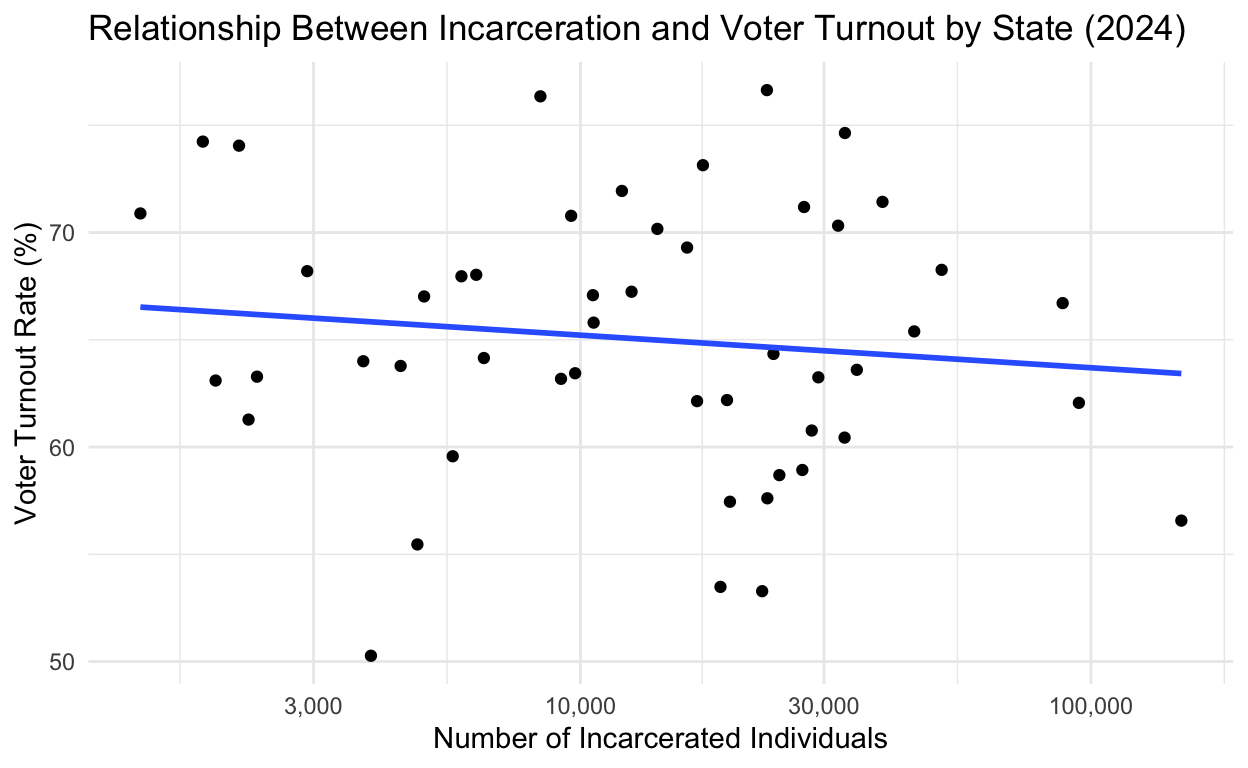
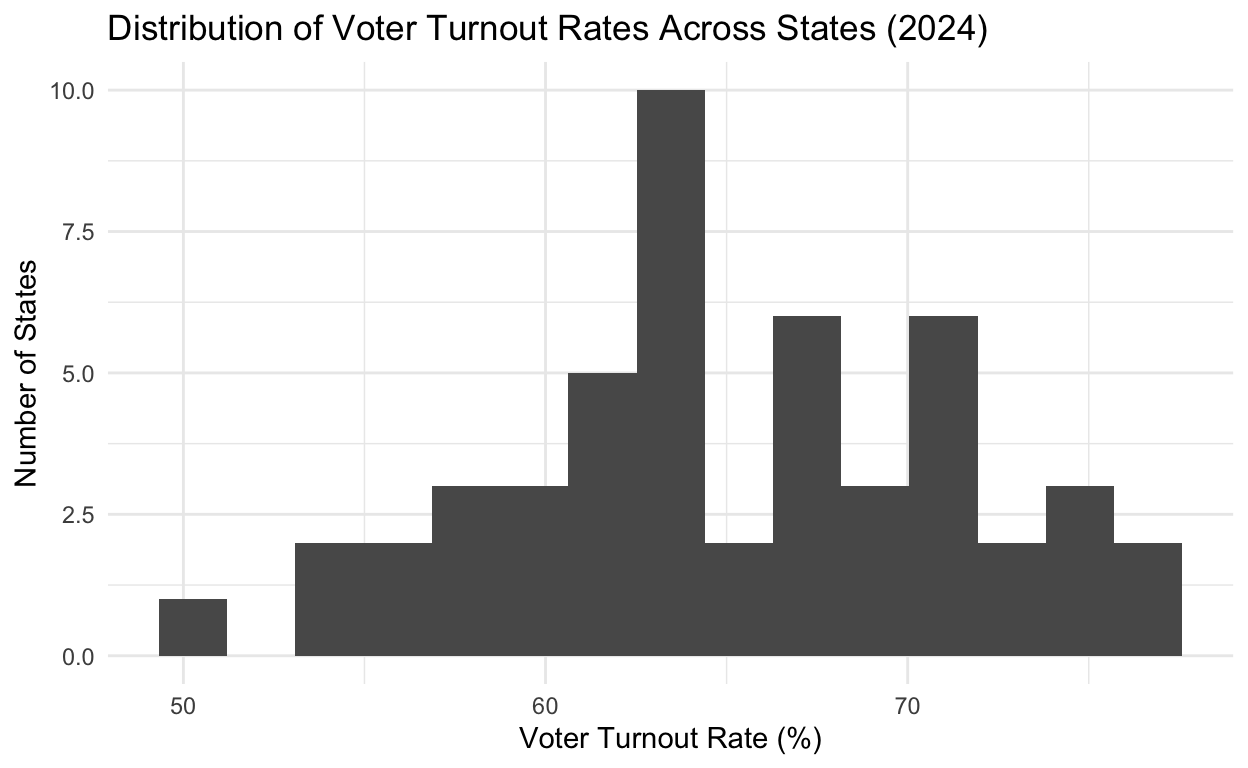
FP

diff --git a/index.html b/index.html
@@ -89,7 +89,7 @@ code span.wa { color: #5e5e5e; font-style: italic; } /* Warning */
 
 
   <!--radix_placeholder_meta_tags-->
-  <title>PS270 Final Project</title>
+  <title>Incarceration and Voter Turnout Across U.S. States</title>
 
   <meta property="description" itemprop="description" content="My final project"/>
 
@@ -97,21 +97,21 @@ code span.wa { color: #5e5e5e; font-style: italic; } /* Warning */
   <meta name="article:author" content="Ella Smith"/>
 
   <!--  https://developers.facebook.com/docs/sharing/webmasters#markup -->
-  <meta property="og:title" content="PS270 Final Project"/>
+  <meta property="og:title" content="Incarceration and Voter Turnout Across U.S. States"/>
   <meta property="og:type" content="article"/>
   <meta property="og:description" content="My final project"/>
   <meta property="og:locale" content="en_US"/>
 
   <!--  https://dev.twitter.com/cards/types/summary -->
   <meta property="twitter:card" content="summary"/>
-  <meta property="twitter:title" content="PS270 Final Project"/>
+  <meta property="twitter:title" content="Incarceration and Voter Turnout Across U.S. States"/>
   <meta property="twitter:description" content="My final project"/>
 
   <!--/radix_placeholder_meta_tags-->
   <!--radix_placeholder_rmarkdown_metadata-->
 
   <script type="text/json" id="radix-rmarkdown-metadata">
-  {"type":"list","attributes":{"names":{"type":"character","attributes":{},"value":["title","author","description","output"]}},"value":[{"type":"character","attributes":{},"value":["PS270 Final Project"]},{"type":"list","attributes":{},"value":[{"type":"list","attributes":{"names":{"type":"character","attributes":{},"value":["name"]}},"value":[{"type":"character","attributes":{},"value":["Ella Smith"]}]}]},{"type":"character","attributes":{},"value":["My final project"]},{"type":"list","attributes":{"names":{"type":"character","attributes":{},"value":["distill::distill_article"]}},"value":[{"type":"list","attributes":{"names":{"type":"character","attributes":{},"value":["self_contained"]}},"value":[{"type":"logical","attributes":{},"value":[false]}]}]}]}
+  {"type":"list","attributes":{"names":{"type":"character","attributes":{},"value":["title","author","description","output"]}},"value":[{"type":"character","attributes":{},"value":["Incarceration and Voter Turnout Across U.S. States"]},{"type":"list","attributes":{},"value":[{"type":"list","attributes":{"names":{"type":"character","attributes":{},"value":["name"]}},"value":[{"type":"character","attributes":{},"value":["Ella Smith"]}]}]},{"type":"character","attributes":{},"value":["My final project"]},{"type":"list","attributes":{"names":{"type":"character","attributes":{},"value":["distill::distill_article"]}},"value":[{"type":"list","attributes":{"names":{"type":"character","attributes":{},"value":["self_contained"]}},"value":[{"type":"logical","attributes":{},"value":[false]}]}]}]}
   </script>
   <!--/radix_placeholder_rmarkdown_metadata-->
   
@@ -1519,7 +1519,7 @@ code span.wa { color: #5e5e5e; font-style: italic; } /* Warning */
 <!--radix_placeholder_front_matter-->
 
 <script id="distill-front-matter" type="text/json">
-{"title":"PS270 Final Project","description":"My final project","authors":[{"author":"Ella Smith","authorURL":"#","affiliation":"&nbsp;","affiliationURL":"#","orcidID":""}]}
+{"title":"Incarceration and Voter Turnout Across U.S. States","description":"My final project","authors":[{"author":"Ella Smith","authorURL":"#","affiliation":"&nbsp;","affiliationURL":"#","orcidID":""}]}
 </script>
 
 <!--/radix_placeholder_front_matter-->
@@ -1529,7 +1529,7 @@ code span.wa { color: #5e5e5e; font-style: italic; } /* Warning */
 <!--/radix_placeholder_site_before_body-->
 
 <div class="d-title">
-<h1>PS270 Final Project</h1>
+<h1>Incarceration and Voter Turnout Across U.S. States</h1>
 
 <!--radix_placeholder_categories-->
 <!--/radix_placeholder_categories-->
@@ -1544,53 +1544,98 @@ code span.wa { color: #5e5e5e; font-style: italic; } /* Warning */
 </div>
 
 <div class="d-article">
-<h2 id="proposal">Proposal</h2>
-<p>For this project, I want to examine whether states with higher incarceration levels tend to have lower voter turnout in the 2024 presidential election.</p>
-<p>My hypothesis is that higher incarceration levels will be associated with lower turnout. One possible explanation is that states with larger incarcerated populations may reflect broader institutional environments that are less politically inclusive. High incarceration can disrupt communities, weaken social networks, and reduce civic engagement, which may lower participation more generally. The independent variable in my analysis will be the number of incarcerated individuals in each state in Q1 2024, using state level incarceration data. This varies widely across states, which makes it possible to compare them. The dependent variable will be each state’s 2024 voter turnout rate, measured as the percentage of the voting eligible population that cast a ballot. If my hypothesis is correct, I would expect to see a negative relationship between incarceration levels and turnout. If there is no clear relationship, or if the relationship is positive, that would not support my hypothesis.</p>
+<h2 id="introduction">Introduction</h2>
+<p>In this project, I examine whether states with higher incarceration levels tended to have lower voter turnout in the 2024 presidential election.</p>
+<p>My hypothesis is that higher incarceration levels are associated with lower turnout. One possible explanation is that states with larger incarcerated populations may reflect larger, less politically inclusive institutional environments. High incarceration can disrupt communities, weaken social relationships, and reduce civic involvement, which could lower participation more broadly This makes the relationship important for understanding larger patterns of political inequality across various states in the U.S.</p>
+<p>The independent variable is the number of incarcerated individuals in each state in Q1 2024. This varies widely across states, which makes it possible to compare them. The dependent variable is each state’s 2024 voter turnout rate, measured as the percentage of the voting eligible population that cast a ballot.</p>
+<p>If my hypothesis is correct, I’d expect to see a negative relationship between incarceration levels and turnout. If there is no clear relationship or if the relationship is positive, this wouldn’t support my hypothesis.</p>
 <h2 id="data">Data</h2>
+<p>This analysis uses state level data on both incarceration and voter turnout in the 2024 presidential election. The incarceration data comes from the Vera Institute of Justice, and the voter turnout data comes from the University of Florida’s Election Lab. The voter turnout data measures the percentage of the voting eligible population that casted a ballot in each state. After cleaning both datasets, I merge them by state, that way each observation represents one state.</p>
+<p>The dependent variable in this analysis is voter turnout rate, measured as the percentage of eligible voters who voted in 2024. The main independent variable is the number of incarcerated people in each state. Both variables vary widely across states so that allows for a comparison of how incarceration levels relate to political participation across states.</p>
+<p>This is a cross-sectional analysis, since it compares different states at one point in time. I test my hypothesis using a linear regression model. A negative coefficient on incarceration would support my hypothesis that higher incarceration is associated with lower turnout. A positive or non-significant relationship wouldn’t support my hypothesis.</p>
+<p>The figure below shows the distribution of voter turnout rates across states in 2024.</p>
+<div class="layout-chunk" data-layout="l-body">
+<p><img src="index_files/figure-html5/unnamed-chunk-5-1.png" alt="" width="624" /></p>
+</div>
+<p>The distribution of voter turnout rates across states appears to be centered in the mid-60% range with some variation across states and no obvious extreme values.</p>
+<h2 id="results">Results</h2>
+<p>The figure below illustrates the relationship between incarceration levels and voter turnout across U.S. states in 2024. Incarceration levels vary widely across states, so the x-axis is shown on a log scale.</p>
+<div class="layout-chunk" data-layout="l-body">
+<p><img src="index_files/figure-html5/unnamed-chunk-6-1.png" alt="" width="624" /></p>
+</div>
+<p>The scatterplot is suggesting a slight negative relationship between incarceration and voter turnout, meaning that states with higher incarceration levels tend to have somewhat lower turnout. However, the relationship appears weak, as the data points are widely spread out. To examine this more formally, I estimate a linear regression model (Table 1 presents the results of this regression).</p>
+<div class="layout-chunk" data-layout="l-body">
+<table>
+<caption><span id="tab:unnamed-chunk-7">Table 1: </span>Regression Results: Effect of Incarceration on Voter Turnout</caption>
+<thead>
+<tr class="header">
+<th style="text-align: left;"></th>
+<th style="text-align: right;">Estimate</th>
+<th style="text-align: right;">Std. Error</th>
+<th style="text-align: right;">t value</th>
+<th style="text-align: right;">p-value</th>
+</tr>
+</thead>
+<tbody>
+<tr class="odd">
+<td style="text-align: left;">(Intercept)</td>
+<td style="text-align: right;">65.83151</td>
+<td style="text-align: right;">1.13620</td>
+<td style="text-align: right;">57.93999</td>
+<td style="text-align: right;">0.00000</td>
+</tr>
+<tr class="even">
+<td style="text-align: left;">incarcerated</td>
+<td style="text-align: right;">-0.00004</td>
+<td style="text-align: right;">0.00003</td>
+<td style="text-align: right;">-1.06240</td>
+<td style="text-align: right;">0.29337</td>
+</tr>
+</tbody>
+</table>
+</div>
+<p>These regression results show a negative coefficient on incarceration which is consistent with my hypothesis. Looking at the size of the effect, the coefficient suggests that a one-unit increase in incarceration is associated with a very small decrease in voter turnout, essentially close to zero. However, the p-value is approximately 0.29 which is above the conventional 0.05 threshold. This means the relationship is not statistically significant and we can’t reject the null hypothesis of no relationship.</p>
+<p>Due to this, there isn’t strong evidence that incarceration levels are meaningfully related to voter turnout in this dataset. While the direction of the relationship matches what I anticipated, the effect is extremely small and imprecise</p>
+<p>This analysis is observational and cross-sectional, so the results shouldn’t be interpreted as causal. A valid confounder would need to impact both incarceration rates and voter turnout. Factors like income, education, or state voting laws, for example, could influence both variables and bias the results. While a confounder could be masking a true effect, the lack of statistical significance suggests that any relationship (if it exists) is probably small or difficult to detect with this data.</p>
+<h2 id="conclusion">Conclusion</h2>
+<p>Overall, I find limited support for my hypothesis that higher incarceration levels are associated with lower voter turnout. While the estimated relationship is negative, it isn’t statistically significant and the effect size is very small. This suggests there isn’t strong enough evidence of a meaningful relationship within this analysis.</p>
+<p>One limitation of this study is that it relies on cross-sectional data, which makes it difficult to draw causal conclusions. There could also be omitted variables, like income, education levels, or differences in voting laws, that impact both incarceration and turnout. In addition, measurement differences across states could introduce variability into the analysis.</p>
+<p>If I had more resources and/or time, I would improve this analysis by adding additional control variables to account for potential confounders, or by using data over multiple years to better understand changes over time. For example, future projects could incorporate state-level income measures, education level, or voting policies as control variables. This would provide a stronger picture of whether incarceration has a meaningful impact on voter turnout.</p>
 <div class="layout-chunk" data-layout="l-body">
 <div class="sourceCode">
 <pre class="sourceCode r"><code class="sourceCode r"><span><span class='kw'><a href='https://rdrr.io/r/base/library.html'>library</a></span><span class='op'>(</span><span class='va'><a href='https://readxl.tidyverse.org'>readxl</a></span><span class='op'>)</span></span>
 <span><span class='kw'><a href='https://rdrr.io/r/base/library.html'>library</a></span><span class='op'>(</span><span class='va'><a href='https://readr.tidyverse.org'>readr</a></span><span class='op'>)</span></span>
 <span><span class='kw'><a href='https://rdrr.io/r/base/library.html'>library</a></span><span class='op'>(</span><span class='va'><a href='https://dplyr.tidyverse.org'>dplyr</a></span><span class='op'>)</span></span>
 <span><span class='kw'><a href='https://rdrr.io/r/base/library.html'>library</a></span><span class='op'>(</span><span class='va'><a href='https://ggplot2.tidyverse.org'>ggplot2</a></span><span class='op'>)</span></span>
+<span><span class='kw'><a href='https://rdrr.io/r/base/library.html'>library</a></span><span class='op'>(</span><span class='va'><a href='https://yihui.org/knitr/'>knitr</a></span><span class='op'>)</span></span>
+<span><span class='kw'><a href='https://rdrr.io/r/base/library.html'>library</a></span><span class='op'>(</span><span class='va'><a href='https://tidyverse.tidyverse.org'>tidyverse</a></span><span class='op'>)</span></span>
 <span></span>
 <span><span class='va'>incarceration</span> <span class='op'>&lt;-</span> <span class='fu'><a href='https://readxl.tidyverse.org/reference/read_excel.html'>read_excel</a></span><span class='op'>(</span><span class='st'>"Prisonpopulation.xlsx"</span>, sheet <span class='op'>=</span> <span class='st'>"prison-data"</span>, skip <span class='op'>=</span> <span class='fl'>6</span><span class='op'>)</span></span>
 <span></span>
-<span><span class='va'>turnout</span> <span class='op'>&lt;-</span> <span class='fu'><a href='https://readr.tidyverse.org/reference/read_delim.html'>read_csv</a></span><span class='op'>(</span><span class='st'>"Voterturnout.csv"</span>, show_col_types <span class='op'>=</span> <span class='cn'>FALSE</span><span class='op'>)</span></span></code></pre>
-</div>
-</div>
-<div class="layout-chunk" data-layout="l-body">
-<div class="sourceCode">
-<pre class="sourceCode r"><code class="sourceCode r"><span><span class='va'>incarceration</span> <span class='op'>&lt;-</span> <span class='va'>incarceration</span> <span class='op'>|&gt;</span></span>
+<span><span class='va'>turnout</span> <span class='op'>&lt;-</span> <span class='fu'><a href='https://readr.tidyverse.org/reference/read_delim.html'>read_csv</a></span><span class='op'>(</span><span class='st'>"Voterturnout.csv"</span>, show_col_types <span class='op'>=</span> <span class='cn'>FALSE</span><span class='op'>)</span></span>
+<span><span class='va'>incarceration</span> <span class='op'>&lt;-</span> <span class='va'>incarceration</span> <span class='op'>|&gt;</span></span>
 <span>  <span class='fu'><a href='https://dplyr.tidyverse.org/reference/slice.html'>slice</a></span><span class='op'>(</span><span class='op'>-</span><span class='op'>(</span><span class='fl'>1</span><span class='op'>:</span><span class='fl'>2</span><span class='op'>)</span><span class='op'>)</span> <span class='op'>|&gt;</span></span>
 <span>  <span class='fu'><a href='https://dplyr.tidyverse.org/reference/select.html'>select</a></span><span class='op'>(</span>state<span class='op'>=</span> <span class='fl'>1</span>, incarcerated <span class='op'>=</span> <span class='fl'>9</span><span class='op'>)</span> <span class='op'>|&gt;</span></span>
 <span>  <span class='fu'><a href='https://dplyr.tidyverse.org/reference/filter.html'>filter</a></span><span class='op'>(</span><span class='va'>state</span> <span class='op'>!=</span> <span class='st'>"state_name"</span><span class='op'>)</span> <span class='op'>|&gt;</span></span>
-<span>  <span class='fu'><a href='https://dplyr.tidyverse.org/reference/mutate.html'>mutate</a></span><span class='op'>(</span>incarcerated <span class='op'>=</span> <span class='fu'><a href='https://rdrr.io/r/base/numeric.html'>as.numeric</a></span><span class='op'>(</span><span class='va'>incarcerated</span><span class='op'>)</span><span class='op'>)</span></span></code></pre>
-</div>
-</div>
-<div class="layout-chunk" data-layout="l-body">
-<div class="sourceCode">
-<pre class="sourceCode r"><code class="sourceCode r"><span><span class='va'>turnout</span> <span class='op'>&lt;-</span> <span class='va'>turnout</span> <span class='op'>|&gt;</span></span>
+<span>  <span class='fu'><a href='https://dplyr.tidyverse.org/reference/mutate.html'>mutate</a></span><span class='op'>(</span>incarcerated <span class='op'>=</span> <span class='fu'><a href='https://rdrr.io/r/base/numeric.html'>as.numeric</a></span><span class='op'>(</span><span class='va'>incarcerated</span><span class='op'>)</span><span class='op'>)</span></span>
+<span><span class='va'>turnout</span> <span class='op'>&lt;-</span> <span class='va'>turnout</span> <span class='op'>|&gt;</span></span>
 <span>  <span class='fu'><a href='https://dplyr.tidyverse.org/reference/mutate.html'>mutate</a></span><span class='op'>(</span></span>
 <span>    turnout_rate <span class='op'>=</span> <span class='fu'><a href='https://rdrr.io/r/base/numeric.html'>as.numeric</a></span><span class='op'>(</span><span class='fu'><a href='https://rdrr.io/r/base/grep.html'>gsub</a></span><span class='op'>(</span><span class='st'>"%"</span>, <span class='st'>""</span>, <span class='va'>VEP_TURNOUT_RATE</span><span class='op'>)</span><span class='op'>)</span>,</span>
 <span>    state <span class='op'>=</span> <span class='fu'><a href='https://rdrr.io/r/base/trimws.html'>trimws</a></span><span class='op'>(</span><span class='va'>STATE</span><span class='op'>)</span></span>
 <span>  <span class='op'>)</span> <span class='op'>|&gt;</span></span>
-<span>  <span class='fu'><a href='https://dplyr.tidyverse.org/reference/filter.html'>filter</a></span><span class='op'>(</span><span class='va'>state</span> <span class='op'>!=</span> <span class='st'>"United States"</span><span class='op'>)</span></span></code></pre>
-</div>
-</div>
-<div class="layout-chunk" data-layout="l-body">
-<div class="sourceCode">
-<pre class="sourceCode r"><code class="sourceCode r"><span><span class='va'>data</span> <span class='op'>&lt;-</span> <span class='fu'><a href='https://dplyr.tidyverse.org/reference/mutate-joins.html'>inner_join</a></span><span class='op'>(</span><span class='va'>incarceration</span>, <span class='va'>turnout</span>, by <span class='op'>=</span> <span class='st'>"state"</span><span class='op'>)</span></span>
+<span>  <span class='fu'><a href='https://dplyr.tidyverse.org/reference/filter.html'>filter</a></span><span class='op'>(</span><span class='va'>state</span> <span class='op'>!=</span> <span class='st'>"United States"</span><span class='op'>)</span></span>
+<span><span class='va'>data</span> <span class='op'>&lt;-</span> <span class='fu'><a href='https://dplyr.tidyverse.org/reference/mutate-joins.html'>inner_join</a></span><span class='op'>(</span><span class='va'>incarceration</span>, <span class='va'>turnout</span>, by <span class='op'>=</span> <span class='st'>"state"</span><span class='op'>)</span></span>
 <span><span class='va'>data</span> <span class='op'>&lt;-</span> <span class='va'>data</span> <span class='op'>|&gt;</span></span>
-<span>  <span class='fu'><a href='https://dplyr.tidyverse.org/reference/select.html'>select</a></span><span class='op'>(</span><span class='va'>state</span>, <span class='va'>incarcerated</span>, <span class='va'>turnout_rate</span><span class='op'>)</span></span></code></pre>
-</div>
-</div>
-<h2 id="results">Results</h2>
-<p>The figure below shows the relationship between incarceration levels and voter turnout across states.</p>
-<div class="layout-chunk" data-layout="l-body">
-<div class="sourceCode">
-<pre class="sourceCode r"><code class="sourceCode r"><span><span class='fu'><a href='https://ggplot2.tidyverse.org/reference/ggplot.html'>ggplot</a></span><span class='op'>(</span><span class='va'>data</span>, <span class='fu'><a href='https://ggplot2.tidyverse.org/reference/aes.html'>aes</a></span><span class='op'>(</span>x <span class='op'>=</span> <span class='va'>incarcerated</span>, y <span class='op'>=</span> <span class='va'>turnout_rate</span><span class='op'>)</span><span class='op'>)</span> <span class='op'>+</span></span>
+<span>  <span class='fu'><a href='https://dplyr.tidyverse.org/reference/select.html'>select</a></span><span class='op'>(</span><span class='va'>state</span>, <span class='va'>incarcerated</span>, <span class='va'>turnout_rate</span><span class='op'>)</span></span>
+<span><span class='fu'><a href='https://ggplot2.tidyverse.org/reference/ggplot.html'>ggplot</a></span><span class='op'>(</span><span class='va'>data</span>, <span class='fu'><a href='https://ggplot2.tidyverse.org/reference/aes.html'>aes</a></span><span class='op'>(</span>x <span class='op'>=</span> <span class='va'>turnout_rate</span><span class='op'>)</span><span class='op'>)</span> <span class='op'>+</span></span>
+<span>  <span class='fu'><a href='https://ggplot2.tidyverse.org/reference/geom_histogram.html'>geom_histogram</a></span><span class='op'>(</span>bins <span class='op'>=</span> <span class='fl'>15</span><span class='op'>)</span> <span class='op'>+</span></span>
+<span>  <span class='fu'><a href='https://ggplot2.tidyverse.org/reference/labs.html'>labs</a></span><span class='op'>(</span></span>
+<span>    title <span class='op'>=</span> <span class='st'>"Distribution of Voter Turnout Rates Across States (2024)"</span>,</span>
+<span>    x <span class='op'>=</span> <span class='st'>"Voter Turnout Rate (%)"</span>,</span>
+<span>    y <span class='op'>=</span> <span class='st'>"Number of States"</span></span>
+<span>  <span class='op'>)</span> <span class='op'>+</span></span>
+<span>  <span class='fu'><a href='https://ggplot2.tidyverse.org/reference/ggtheme.html'>theme_minimal</a></span><span class='op'>(</span><span class='op'>)</span></span>
+<span><span class='fu'><a href='https://ggplot2.tidyverse.org/reference/ggplot.html'>ggplot</a></span><span class='op'>(</span><span class='va'>data</span>, <span class='fu'><a href='https://ggplot2.tidyverse.org/reference/aes.html'>aes</a></span><span class='op'>(</span>x <span class='op'>=</span> <span class='va'>incarcerated</span>, y <span class='op'>=</span> <span class='va'>turnout_rate</span><span class='op'>)</span><span class='op'>)</span> <span class='op'>+</span></span>
 <span>  <span class='fu'><a href='https://ggplot2.tidyverse.org/reference/geom_point.html'>geom_point</a></span><span class='op'>(</span><span class='op'>)</span> <span class='op'>+</span></span>
 <span>  <span class='fu'><a href='https://ggplot2.tidyverse.org/reference/geom_smooth.html'>geom_smooth</a></span><span class='op'>(</span>method <span class='op'>=</span> <span class='st'>"lm"</span>, se <span class='op'>=</span> <span class='cn'>FALSE</span><span class='op'>)</span> <span class='op'>+</span></span>
 <span>  <span class='fu'><a href='https://ggplot2.tidyverse.org/reference/labs.html'>labs</a></span><span class='op'>(</span></span>
@@ -1599,48 +1644,14 @@ code span.wa { color: #5e5e5e; font-style: italic; } /* Warning */
 <span>    y <span class='op'>=</span> <span class='st'>"Voter Turnout Rate (%)"</span></span>
 <span>  <span class='op'>)</span> <span class='op'>+</span></span>
 <span>  <span class='fu'><a href='https://ggplot2.tidyverse.org/reference/ggtheme.html'>theme_minimal</a></span><span class='op'>(</span><span class='op'>)</span> <span class='op'>+</span></span>
-<span>  <span class='fu'><a href='https://ggplot2.tidyverse.org/reference/scale_continuous.html'>scale_x_log10</a></span><span class='op'>(</span>labels <span class='op'>=</span> <span class='fu'>scales</span><span class='fu'>::</span><span class='va'><a href='https://scales.r-lib.org/reference/comma.html'>comma</a></span><span class='op'>)</span></span></code></pre>
-</div>
-<p><img src="index_files/figure-html5/unnamed-chunk-5-1.png" alt="" width="624" /></p>
-</div>
-<p>The scatterplot suggests a slight negative relationship between incarceration and voter turnout, meaning that states with higher incarceration levels tend to have somewhat lower turnout. However, the relationship appears weak, as the data points are widely dispersed.To further examine this relationship, I estimate a linear regression model.</p>
-<div class="layout-chunk" data-layout="l-body">
-<div class="sourceCode">
-<pre class="sourceCode r"><code class="sourceCode r"><span><span class='va'>model</span> <span class='op'>&lt;-</span> <span class='fu'><a href='https://rdrr.io/r/stats/lm.html'>lm</a></span><span class='op'>(</span><span class='va'>turnout_rate</span> <span class='op'>~</span> <span class='va'>incarcerated</span>, data <span class='op'>=</span> <span class='va'>data</span><span class='op'>)</span></span>
+<span>  <span class='fu'><a href='https://ggplot2.tidyverse.org/reference/scale_continuous.html'>scale_x_log10</a></span><span class='op'>(</span>labels <span class='op'>=</span> <span class='fu'>scales</span><span class='fu'>::</span><span class='va'><a href='https://scales.r-lib.org/reference/comma.html'>comma</a></span><span class='op'>)</span></span>
+<span><span class='va'>model</span> <span class='op'>&lt;-</span> <span class='fu'><a href='https://rdrr.io/r/stats/lm.html'>lm</a></span><span class='op'>(</span><span class='va'>turnout_rate</span> <span class='op'>~</span> <span class='va'>incarcerated</span>, data <span class='op'>=</span> <span class='va'>data</span><span class='op'>)</span></span>
 <span></span>
-<span><span class='kw'><a href='https://rdrr.io/r/base/library.html'>library</a></span><span class='op'>(</span><span class='va'><a href='https://yihui.org/knitr/'>knitr</a></span><span class='op'>)</span></span>
-<span><span class='fu'><a href='https://rdrr.io/pkg/knitr/man/kable.html'>kable</a></span><span class='op'>(</span><span class='fu'><a href='https://rdrr.io/r/base/summary.html'>summary</a></span><span class='op'>(</span><span class='va'>model</span><span class='op'>)</span><span class='op'>$</span><span class='va'>coefficients</span><span class='op'>)</span></span></code></pre>
+<span><span class='fu'><a href='https://rdrr.io/pkg/knitr/man/kable.html'>kable</a></span><span class='op'>(</span><span class='fu'><a href='https://rdrr.io/r/base/Round.html'>round</a></span><span class='op'>(</span><span class='fu'><a href='https://rdrr.io/r/base/summary.html'>summary</a></span><span class='op'>(</span><span class='va'>model</span><span class='op'>)</span><span class='op'>$</span><span class='va'>coefficients</span>, <span class='fl'>5</span><span class='op'>)</span>,</span>
+<span>      col.names <span class='op'>=</span> <span class='fu'><a href='https://rdrr.io/r/base/c.html'>c</a></span><span class='op'>(</span><span class='st'>"Estimate"</span>, <span class='st'>"Std. Error"</span>, <span class='st'>"t value"</span>, <span class='st'>"p-value"</span><span class='op'>)</span>,</span>
+<span>      caption <span class='op'>=</span> <span class='st'>"Regression Results: Effect of Incarceration on Voter Turnout"</span><span class='op'>)</span></span></code></pre>
 </div>
-<table>
-<thead>
-<tr class="header">
-<th style="text-align: left;"></th>
-<th style="text-align: right;">Estimate</th>
-<th style="text-align: right;">Std. Error</th>
-<th style="text-align: right;">t value</th>
-<th style="text-align: right;">Pr(&gt;|t|)</th>
-</tr>
-</thead>
-<tbody>
-<tr class="odd">
-<td style="text-align: left;">(Intercept)</td>
-<td style="text-align: right;">65.8315071</td>
-<td style="text-align: right;">1.136202</td>
-<td style="text-align: right;">57.939986</td>
-<td style="text-align: right;">0.0000000</td>
-</tr>
-<tr class="even">
-<td style="text-align: left;">incarcerated</td>
-<td style="text-align: right;">-0.0000351</td>
-<td style="text-align: right;">0.000033</td>
-<td style="text-align: right;">-1.062399</td>
-<td style="text-align: right;">0.2933705</td>
-</tr>
-</tbody>
-</table>
 </div>
-<p>The regression results show a negative coefficient on incarceration, which is consistent with the hypothesis. However, the coefficient is not statistically significant, meaning there is not strong evidence of a relationship between incarceration and turnout. The estimated effect is also very small.</p>
-<p>Because this analysis is observational and cross-sectional, the results should not be interpreted as causal. Other factors, such as education, income, or state voting laws, may influence turnout and confound the relationship.</p>
 <div class="sourceCode" id="cb1"><pre class="sourceCode r distill-force-highlighting-css"><code class="sourceCode r"></code></pre></div>
 <!--radix_placeholder_article_footer-->
 <!--/radix_placeholder_article_footer-->